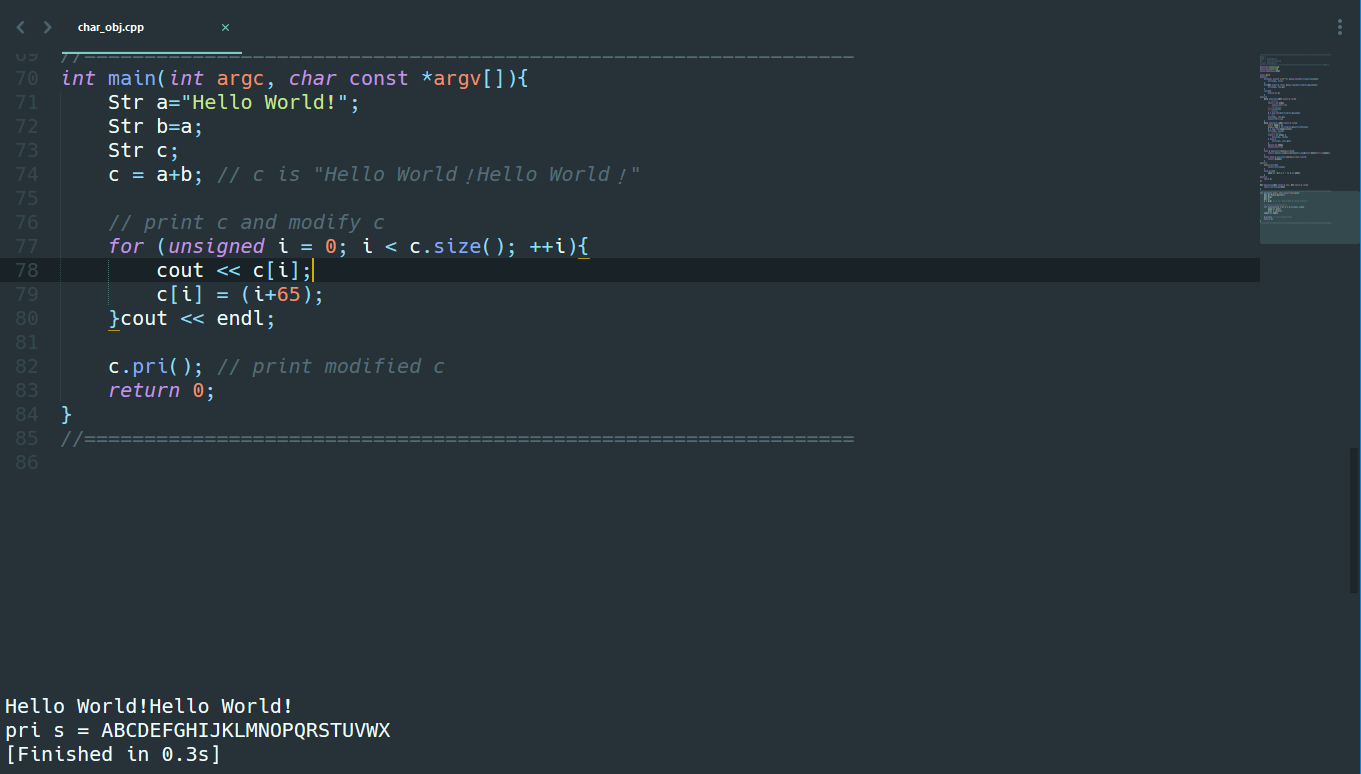
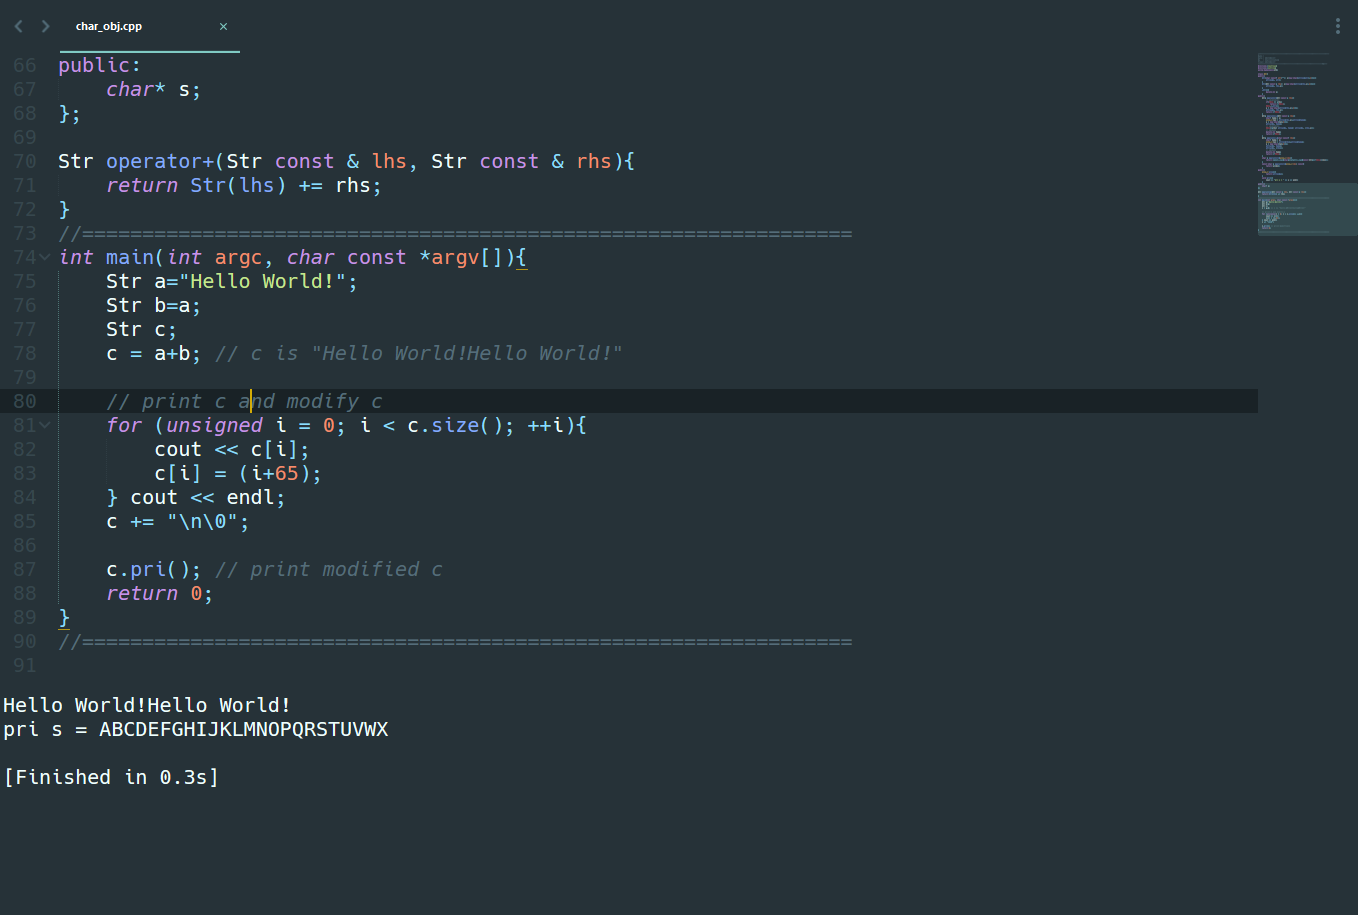
update

diff --git a/class11/char_obj_ex.cpp b/class11/char_obj_ex.cpp
@@ -26,7 +26,8 @@ int main(int argc, char const *argv[]){
     for (unsigned i = 0; i < c.size(); ++i){
         cout << c[i];
         c[i] = (i+65);
-    }cout << endl;
+    } c += "\n\0";
+    cout << endl;
 
     c.pri(); // print modified c
     return 0;
